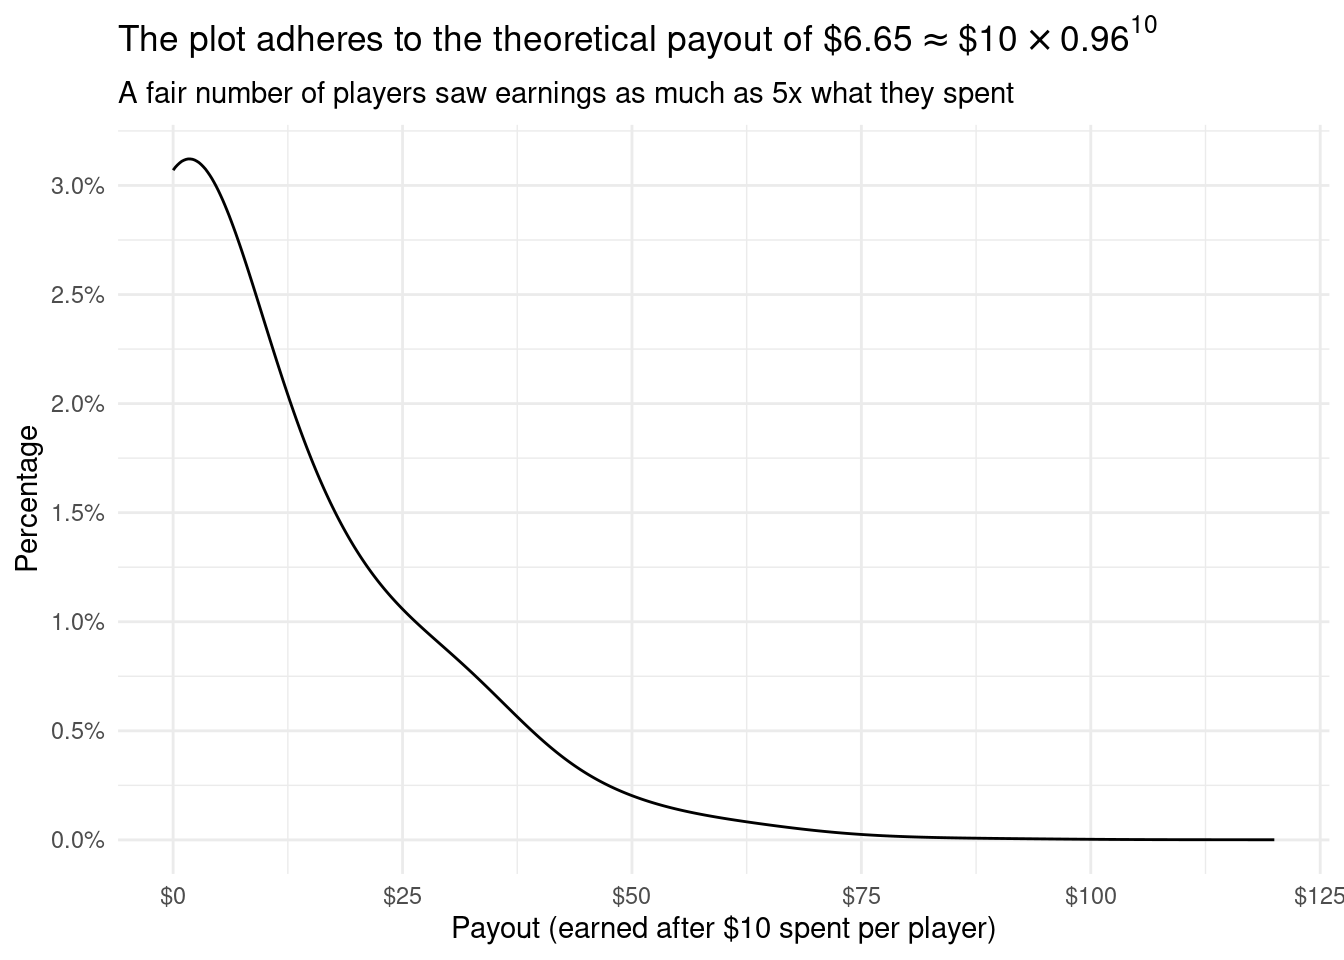
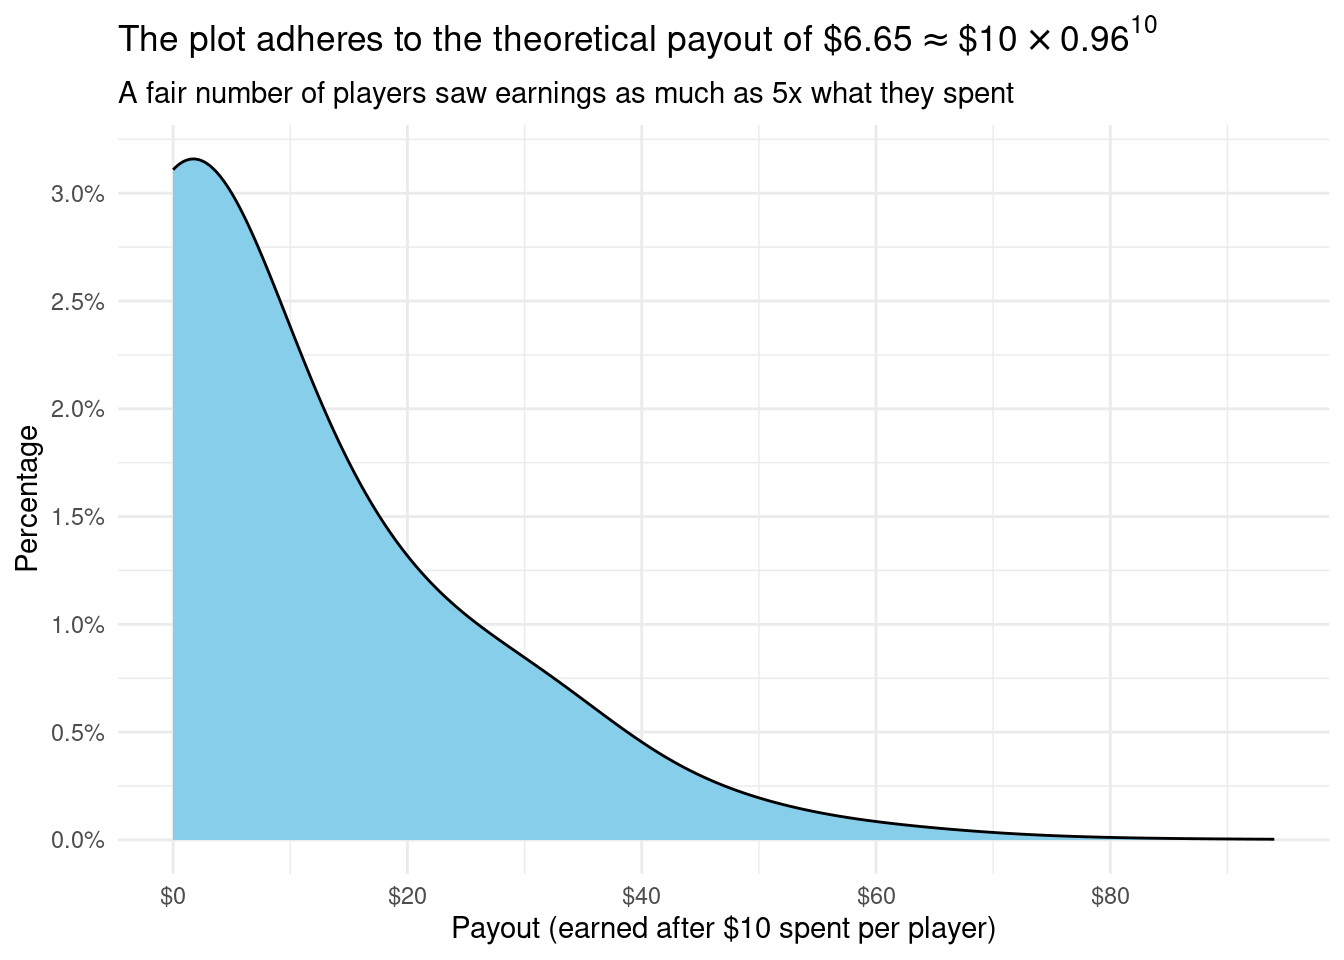
Build

diff --git a/simulation.html b/simulation.html
@@ -224,7 +224,7 @@ code span.wa { color: #60a0b0; font-weight: bold; font-style: italic; } /* Warni
 </section>
 <section id="define-the-payout-matrix-and-winning-combos" class="level3">
 <h3 class="anchored" data-anchor-id="define-the-payout-matrix-and-winning-combos">Define the payout matrix and winning combos</h3>
-<p>We define the set of winning combinations <span class="math inline">\(W \subset \Omega\)</span> to be equal to <span class="math inline">\(\{(x,y,z) \in \Omega: y = 11 \lor (x,y) \in \{(5,5), (1,1), (2,2)\}\lor x=y=z\}\)</span> and the payout function <span class="math display">\[f: W \rightarrow \mathbb{R}\]</span> such that</p>
+<p>We define the set of winning combinations <span class="math inline">\(W \subset \Omega\)</span> to be equal to <span class="math inline">\(\{(x,y,z) \in \Omega: (y = 11\land x \equiv\text{1 (mod 2)}) \lor (x,y) \in \{(5,5), (1,1), (2,2)\}\lor x=y=z\}\)</span> and the payout function <span class="math display">\[f: W \rightarrow \mathbb{R}\]</span> such that</p>
 <p><span class="math display">\[
 f(w) =
 \begin{cases}
@@ -295,9 +295,9 @@ x \in X, &amp; \text{if } w = (x_1, 11, x_3)\text{ and }x_1 \equiv 1\text{ (mod 
 <span id="cb12-20"><a href="#cb12-20" aria-hidden="true" tabindex="-1"></a>expected_value <span class="op">=</span> total_payout <span class="op">/</span> num_combinations</span>
 <span id="cb12-21"><a href="#cb12-21" aria-hidden="true" tabindex="-1"></a></span>
 <span id="cb12-22"><a href="#cb12-22" aria-hidden="true" tabindex="-1"></a><span class="cf">assert</span> expected_value <span class="op">&lt;</span> <span class="dv">1</span>, <span class="ss">f"your payout of </span><span class="sc">{</span>expected_value<span class="sc">}</span><span class="ss"> favours the player!"</span></span>
-<span id="cb12-23"><a href="#cb12-23" aria-hidden="true" tabindex="-1"></a><span class="bu">print</span>(expected_value)</span></code><button title="Copy to Clipboard" class="code-copy-button"><i class="bi"></i></button></pre></div>
+<span id="cb12-23"><a href="#cb12-23" aria-hidden="true" tabindex="-1"></a><span class="bu">print</span>(<span class="st">"The long-run theoretical payout per dollar is $"</span> <span class="op">+</span> <span class="bu">str</span>(<span class="bu">round</span>(expected_value, <span class="dv">4</span>)))</span></code><button title="Copy to Clipboard" class="code-copy-button"><i class="bi"></i></button></pre></div>
 <div class="cell-output cell-output-stdout">
-<pre><code>0.9581818181818181</code></pre>
+<pre><code>The long-run theoretical payout per dollar is $0.9582</code></pre>
 </div>
 </div>
 </section>
@@ -361,19 +361,25 @@ x \in X, &amp; \text{if } w = (x_1, 11, x_3)\text{ and }x_1 \equiv 1\text{ (mod 
 <summary>Hide the code</summary>
 <div class="sourceCode cell-code" id="cb18"><pre class="sourceCode r code-with-copy"><code class="sourceCode r"><span id="cb18-1"><a href="#cb18-1" aria-hidden="true" tabindex="-1"></a>outcome <span class="sc">|&gt;</span> </span>
 <span id="cb18-2"><a href="#cb18-2" aria-hidden="true" tabindex="-1"></a>  <span class="fu">ggplot</span>(<span class="fu">aes</span>(payout <span class="sc">*</span> <span class="dv">10</span>)) <span class="sc">+</span> <span class="co">#total earned rather than earning per dollar.</span></span>
-<span id="cb18-3"><a href="#cb18-3" aria-hidden="true" tabindex="-1"></a>  <span class="fu">geom_density</span>(<span class="at">bw =</span> <span class="fl">8.5</span>) <span class="sc">+</span> <span class="co">#heavy smoothing because of the discrete volatility of the data.</span></span>
-<span id="cb18-4"><a href="#cb18-4" aria-hidden="true" tabindex="-1"></a>  <span class="fu">labs</span>(</span>
-<span id="cb18-5"><a href="#cb18-5" aria-hidden="true" tabindex="-1"></a>    <span class="at">subtitle =</span> <span class="st">"A fair number of players saw earnings as much as 5x what they spent"</span>,</span>
-<span id="cb18-6"><a href="#cb18-6" aria-hidden="true" tabindex="-1"></a>    <span class="at">y =</span> <span class="st">"Percentage"</span>, </span>
-<span id="cb18-7"><a href="#cb18-7" aria-hidden="true" tabindex="-1"></a>    <span class="at">x =</span> <span class="st">"Payout (earned after $10 spent per player)"</span>,</span>
-<span id="cb18-8"><a href="#cb18-8" aria-hidden="true" tabindex="-1"></a>  ) <span class="sc">+</span></span>
-<span id="cb18-9"><a href="#cb18-9" aria-hidden="true" tabindex="-1"></a>    <span class="fu">ggtitle</span>(latex2exp<span class="sc">::</span><span class="fu">TeX</span>(<span class="st">"The plot adheres to the theoretical payout of $</span><span class="sc">\\</span><span class="st">$6.65 </span><span class="sc">\\</span><span class="st">approx </span><span class="sc">\\</span><span class="st">$10 </span><span class="sc">\\</span><span class="st">times 0.96^{10}$"</span>)) <span class="sc">+</span></span>
-<span id="cb18-10"><a href="#cb18-10" aria-hidden="true" tabindex="-1"></a>  <span class="fu">scale_x_continuous</span>(<span class="at">labels =</span> scales<span class="sc">::</span><span class="fu">label_dollar</span>()) <span class="sc">+</span></span>
-<span id="cb18-11"><a href="#cb18-11" aria-hidden="true" tabindex="-1"></a>  <span class="fu">scale_y_continuous</span>(</span>
-<span id="cb18-12"><a href="#cb18-12" aria-hidden="true" tabindex="-1"></a>    <span class="at">breaks =</span> scales<span class="sc">::</span><span class="fu">breaks_extended</span>(<span class="at">n =</span> <span class="dv">7</span>),</span>
-<span id="cb18-13"><a href="#cb18-13" aria-hidden="true" tabindex="-1"></a>    <span class="at">labels =</span> scales<span class="sc">::</span><span class="fu">label_percent</span>()</span>
-<span id="cb18-14"><a href="#cb18-14" aria-hidden="true" tabindex="-1"></a>  ) <span class="sc">+</span></span>
-<span id="cb18-15"><a href="#cb18-15" aria-hidden="true" tabindex="-1"></a>  <span class="fu">theme_minimal</span>()</span></code><button title="Copy to Clipboard" class="code-copy-button"><i class="bi"></i></button></pre></div>
+<span id="cb18-3"><a href="#cb18-3" aria-hidden="true" tabindex="-1"></a>  <span class="fu">geom_density</span>(</span>
+<span id="cb18-4"><a href="#cb18-4" aria-hidden="true" tabindex="-1"></a>    <span class="at">bw =</span> <span class="fl">8.5</span>, <span class="do">##heavy smoothing because of the discrete volatility of the data.</span></span>
+<span id="cb18-5"><a href="#cb18-5" aria-hidden="true" tabindex="-1"></a>    <span class="at">fill =</span> <span class="st">"skyblue"</span></span>
+<span id="cb18-6"><a href="#cb18-6" aria-hidden="true" tabindex="-1"></a>  ) <span class="sc">+</span> </span>
+<span id="cb18-7"><a href="#cb18-7" aria-hidden="true" tabindex="-1"></a>  <span class="fu">labs</span>(</span>
+<span id="cb18-8"><a href="#cb18-8" aria-hidden="true" tabindex="-1"></a>    <span class="at">subtitle =</span> <span class="st">"A fair number of players saw earnings as much as 5x what they spent"</span>,</span>
+<span id="cb18-9"><a href="#cb18-9" aria-hidden="true" tabindex="-1"></a>    <span class="at">y =</span> <span class="st">"Percentage"</span>, </span>
+<span id="cb18-10"><a href="#cb18-10" aria-hidden="true" tabindex="-1"></a>    <span class="at">x =</span> <span class="st">"Payout (earned after $10 spent per player)"</span>,</span>
+<span id="cb18-11"><a href="#cb18-11" aria-hidden="true" tabindex="-1"></a>  ) <span class="sc">+</span></span>
+<span id="cb18-12"><a href="#cb18-12" aria-hidden="true" tabindex="-1"></a>    <span class="fu">ggtitle</span>(latex2exp<span class="sc">::</span><span class="fu">TeX</span>(<span class="st">"The plot adheres to the theoretical payout of $</span><span class="sc">\\</span><span class="st">$6.65 </span><span class="sc">\\</span><span class="st">approx </span><span class="sc">\\</span><span class="st">$10 </span><span class="sc">\\</span><span class="st">times 0.96^{10}$"</span>)) <span class="sc">+</span></span>
+<span id="cb18-13"><a href="#cb18-13" aria-hidden="true" tabindex="-1"></a>  <span class="fu">scale_x_continuous</span>(</span>
+<span id="cb18-14"><a href="#cb18-14" aria-hidden="true" tabindex="-1"></a>    <span class="at">breaks =</span> scales<span class="sc">::</span><span class="fu">breaks_extended</span>(<span class="at">n =</span> <span class="dv">7</span>),</span>
+<span id="cb18-15"><a href="#cb18-15" aria-hidden="true" tabindex="-1"></a>    <span class="at">labels =</span> scales<span class="sc">::</span><span class="fu">label_dollar</span>()</span>
+<span id="cb18-16"><a href="#cb18-16" aria-hidden="true" tabindex="-1"></a>  ) <span class="sc">+</span></span>
+<span id="cb18-17"><a href="#cb18-17" aria-hidden="true" tabindex="-1"></a>  <span class="fu">scale_y_continuous</span>(</span>
+<span id="cb18-18"><a href="#cb18-18" aria-hidden="true" tabindex="-1"></a>    <span class="at">breaks =</span> scales<span class="sc">::</span><span class="fu">breaks_extended</span>(<span class="at">n =</span> <span class="dv">7</span>),</span>
+<span id="cb18-19"><a href="#cb18-19" aria-hidden="true" tabindex="-1"></a>    <span class="at">labels =</span> scales<span class="sc">::</span><span class="fu">label_percent</span>()</span>
+<span id="cb18-20"><a href="#cb18-20" aria-hidden="true" tabindex="-1"></a>  ) <span class="sc">+</span></span>
+<span id="cb18-21"><a href="#cb18-21" aria-hidden="true" tabindex="-1"></a>  <span class="fu">theme_minimal</span>()</span></code><button title="Copy to Clipboard" class="code-copy-button"><i class="bi"></i></button></pre></div>
 </details>
 <div class="cell-output-display">
 <p><img src="simulation_files/figure-html/unnamed-chunk-13-1.png" class="img-fluid" width="672"></p>
@@ -418,9 +424,10 @@ x \in X, &amp; \text{if } w = (x_1, 11, x_3)\text{ and }x_1 \equiv 1\text{ (mod 
 <span id="cb20-5"><a href="#cb20-5" aria-hidden="true" tabindex="-1"></a>    <span class="at">fill =</span> <span class="st">"skyblue"</span></span>
 <span id="cb20-6"><a href="#cb20-6" aria-hidden="true" tabindex="-1"></a>  ) <span class="sc">+</span></span>
 <span id="cb20-7"><a href="#cb20-7" aria-hidden="true" tabindex="-1"></a>  <span class="fu">xlab</span>(<span class="st">"Payout per game"</span>) <span class="sc">+</span></span>
-<span id="cb20-8"><a href="#cb20-8" aria-hidden="true" tabindex="-1"></a>  <span class="fu">ylab</span>(<span class="st">""</span>) <span class="sc">+</span></span>
-<span id="cb20-9"><a href="#cb20-9" aria-hidden="true" tabindex="-1"></a>  <span class="fu">theme_minimal</span>()</span>
-<span id="cb20-10"><a href="#cb20-10" aria-hidden="true" tabindex="-1"></a>p1</span></code><button title="Copy to Clipboard" class="code-copy-button"><i class="bi"></i></button></pre></div>
+<span id="cb20-8"><a href="#cb20-8" aria-hidden="true" tabindex="-1"></a>  <span class="fu">ylab</span>(<span class="st">"Games played"</span>) <span class="sc">+</span></span>
+<span id="cb20-9"><a href="#cb20-9" aria-hidden="true" tabindex="-1"></a>  <span class="fu">scale_x_continuous</span>(<span class="at">breaks =</span> scales<span class="sc">::</span><span class="fu">breaks_extended</span>(<span class="at">n =</span> <span class="dv">7</span>)) <span class="sc">+</span></span>
+<span id="cb20-10"><a href="#cb20-10" aria-hidden="true" tabindex="-1"></a>  <span class="fu">theme_minimal</span>()</span>
+<span id="cb20-11"><a href="#cb20-11" aria-hidden="true" tabindex="-1"></a>p1</span></code><button title="Copy to Clipboard" class="code-copy-button"><i class="bi"></i></button></pre></div>
 </details>
 <div class="cell-output-display">
 <p><img src="simulation_files/figure-html/unnamed-chunk-15-1.png" class="img-fluid" width="672"></p>
@@ -433,13 +440,15 @@ x \in X, &amp; \text{if } w = (x_1, 11, x_3)\text{ and }x_1 \equiv 1\text{ (mod 
 <pre><code># A tibble: 1 × 7
   statistic   t_df p_value alternative estimate lower_ci upper_ci
       &lt;dbl&gt;  &lt;dbl&gt;   &lt;dbl&gt; &lt;chr&gt;          &lt;dbl&gt;    &lt;dbl&gt;    &lt;dbl&gt;
-1      216. 999999       0 two.sided      0.955    0.946    0.964</code></pre>
+1      216. 999999       0 two.sided      0.953    0.944    0.962</code></pre>
 </div>
 </div>
 <div class="cell">
 <details>
 <summary>Show the code</summary>
-<div class="sourceCode cell-code" id="cb23"><pre class="sourceCode r code-with-copy"><code class="sourceCode r"><span id="cb23-1"><a href="#cb23-1" aria-hidden="true" tabindex="-1"></a>openintro<span class="sc">::</span><span class="fu">normTail</span>(<span class="at">M =</span> <span class="fu">c</span>(<span class="fu">qnorm</span>(<span class="fl">0.025</span>), <span class="fu">qnorm</span>(<span class="fl">0.975</span>)), <span class="at">col =</span> <span class="st">"skyblue"</span>)</span></code><button title="Copy to Clipboard" class="code-copy-button"><i class="bi"></i></button></pre></div>
+<div class="sourceCode cell-code" id="cb23"><pre class="sourceCode r code-with-copy"><code class="sourceCode r"><span id="cb23-1"><a href="#cb23-1" aria-hidden="true" tabindex="-1"></a>lr_mean <span class="ot">&lt;-</span> <span class="fu">mean</span>(longrun_spins<span class="sc">$</span>payout)</span>
+<span id="cb23-2"><a href="#cb23-2" aria-hidden="true" tabindex="-1"></a>lr_se <span class="ot">&lt;-</span> <span class="fu">sd</span>(longrun_spins<span class="sc">$</span>payout)<span class="sc">/</span><span class="fu">sqrt</span>(N_samples)</span>
+<span id="cb23-3"><a href="#cb23-3" aria-hidden="true" tabindex="-1"></a>openintro<span class="sc">::</span><span class="fu">normTail</span>(<span class="at">m =</span> lr_mean, <span class="at">s =</span> lr_se, <span class="at">M =</span> <span class="fu">c</span>(<span class="fu">qnorm</span>(<span class="fl">0.025</span>, <span class="at">mean =</span> lr_mean, <span class="at">sd =</span> lr_se), <span class="fu">qnorm</span>(<span class="fl">0.975</span>, <span class="at">mean =</span> lr_mean, <span class="at">sd =</span> lr_se)), <span class="at">col =</span> <span class="st">"skyblue"</span>)</span></code><button title="Copy to Clipboard" class="code-copy-button"><i class="bi"></i></button></pre></div>
 </details>
 <div class="cell-output-display">
 <p><img src="simulation_files/figure-html/unnamed-chunk-17-1.png" class="img-fluid" width="672"></p>
@@ -478,35 +487,41 @@ x \in X, &amp; \text{if } w = (x_1, 11, x_3)\text{ and }x_1 \equiv 1\text{ (mod 
 <div class="cell">
 <details>
 <summary>Show the code</summary>
-<div class="sourceCode cell-code" id="cb26"><pre class="sourceCode r code-with-copy"><code class="sourceCode r"><span id="cb26-1"><a href="#cb26-1" aria-hidden="true" tabindex="-1"></a>bootstrap_stats <span class="sc">|&gt;</span> </span>
-<span id="cb26-2"><a href="#cb26-2" aria-hidden="true" tabindex="-1"></a>  <span class="fu">visualize</span>(<span class="at">fill =</span> <span class="st">"skyblue"</span>) <span class="sc">+</span></span>
-<span id="cb26-3"><a href="#cb26-3" aria-hidden="true" tabindex="-1"></a>  <span class="fu">shade_confidence_interval</span>(bootstrap_95_percentile_interval, <span class="at">linetype =</span> <span class="st">"dashed"</span>, <span class="at">size =</span> <span class="fl">0.5</span>) <span class="sc">+</span></span>
-<span id="cb26-4"><a href="#cb26-4" aria-hidden="true" tabindex="-1"></a>  <span class="fu">geom_vline</span>(<span class="at">xintercept =</span> obs_stat, <span class="at">linetype =</span> <span class="st">"dotted"</span>, <span class="at">colour =</span> <span class="st">"red"</span>) <span class="sc">+</span></span>
-<span id="cb26-5"><a href="#cb26-5" aria-hidden="true" tabindex="-1"></a>  <span class="fu">theme_minimal</span>() <span class="sc">+</span></span>
-<span id="cb26-6"><a href="#cb26-6" aria-hidden="true" tabindex="-1"></a>  <span class="fu">labs</span>(</span>
-<span id="cb26-7"><a href="#cb26-7" aria-hidden="true" tabindex="-1"></a>    <span class="at">x =</span> <span class="st">""</span>, </span>
-<span id="cb26-8"><a href="#cb26-8" aria-hidden="true" tabindex="-1"></a>    <span class="at">y =</span> <span class="st">""</span>,</span>
-<span id="cb26-9"><a href="#cb26-9" aria-hidden="true" tabindex="-1"></a>    <span class="at">title =</span> <span class="st">"The 95% bootstrap percentile interval also captures the theoretical payout"</span>,</span>
-<span id="cb26-10"><a href="#cb26-10" aria-hidden="true" tabindex="-1"></a>    <span class="at">subtitle =</span> <span class="st">"The interval is a quite wider because the samples are 100x smaller than the original"</span></span>
-<span id="cb26-11"><a href="#cb26-11" aria-hidden="true" tabindex="-1"></a>  ) <span class="sc">+</span></span>
-<span id="cb26-12"><a href="#cb26-12" aria-hidden="true" tabindex="-1"></a>  <span class="fu">scale_y_continuous</span>(<span class="at">labels =</span> <span class="cn">NULL</span>) <span class="sc">+</span></span>
-<span id="cb26-13"><a href="#cb26-13" aria-hidden="true" tabindex="-1"></a>  <span class="fu">annotate</span>(</span>
-<span id="cb26-14"><a href="#cb26-14" aria-hidden="true" tabindex="-1"></a>    <span class="at">geom =</span> <span class="st">"text"</span>,</span>
-<span id="cb26-15"><a href="#cb26-15" aria-hidden="true" tabindex="-1"></a>    <span class="at">label =</span> <span class="fu">str_glue</span>(<span class="st">"Mean of </span><span class="sc">\n</span><span class="st"> {obs_stat}"</span>),</span>
-<span id="cb26-16"><a href="#cb26-16" aria-hidden="true" tabindex="-1"></a>    <span class="at">x =</span> obs_stat <span class="sc">+</span> <span class="fl">0.025</span>,</span>
-<span id="cb26-17"><a href="#cb26-17" aria-hidden="true" tabindex="-1"></a>    <span class="at">y =</span> <span class="dv">1000</span></span>
-<span id="cb26-18"><a href="#cb26-18" aria-hidden="true" tabindex="-1"></a>  ) <span class="sc">+</span></span>
-<span id="cb26-19"><a href="#cb26-19" aria-hidden="true" tabindex="-1"></a>  <span class="fu">geom_text</span>(</span>
-<span id="cb26-20"><a href="#cb26-20" aria-hidden="true" tabindex="-1"></a>    <span class="at">data =</span> bootstrap_95_percentile_interval <span class="sc">|&gt;</span> <span class="fu">pivot_longer</span>(<span class="at">cols =</span> <span class="dv">1</span><span class="sc">:</span><span class="dv">2</span>),</span>
-<span id="cb26-21"><a href="#cb26-21" aria-hidden="true" tabindex="-1"></a>    <span class="fu">aes</span>(<span class="at">x =</span> value, <span class="at">label =</span> value),</span>
-<span id="cb26-22"><a href="#cb26-22" aria-hidden="true" tabindex="-1"></a>    <span class="at">y =</span> <span class="dv">1000</span></span>
-<span id="cb26-23"><a href="#cb26-23" aria-hidden="true" tabindex="-1"></a>  )</span></code><button title="Copy to Clipboard" class="code-copy-button"><i class="bi"></i></button></pre></div>
+<div class="sourceCode cell-code" id="cb26"><pre class="sourceCode r code-with-copy"><code class="sourceCode r"><span id="cb26-1"><a href="#cb26-1" aria-hidden="true" tabindex="-1"></a>text_height <span class="ot">&lt;-</span> <span class="dv">1000</span></span>
+<span id="cb26-2"><a href="#cb26-2" aria-hidden="true" tabindex="-1"></a></span>
+<span id="cb26-3"><a href="#cb26-3" aria-hidden="true" tabindex="-1"></a>bootstrap_stats <span class="sc">|&gt;</span> </span>
+<span id="cb26-4"><a href="#cb26-4" aria-hidden="true" tabindex="-1"></a>  <span class="fu">visualize</span>(<span class="at">fill =</span> <span class="st">"skyblue"</span>) <span class="sc">+</span></span>
+<span id="cb26-5"><a href="#cb26-5" aria-hidden="true" tabindex="-1"></a>  <span class="fu">shade_confidence_interval</span>(bootstrap_95_percentile_interval, <span class="at">linetype =</span> <span class="st">"dashed"</span>, <span class="at">size =</span> <span class="fl">0.5</span>) <span class="sc">+</span></span>
+<span id="cb26-6"><a href="#cb26-6" aria-hidden="true" tabindex="-1"></a>  <span class="fu">geom_vline</span>(<span class="at">xintercept =</span> obs_stat, <span class="at">linetype =</span> <span class="st">"dotted"</span>, <span class="at">colour =</span> <span class="st">"red"</span>) <span class="sc">+</span></span>
+<span id="cb26-7"><a href="#cb26-7" aria-hidden="true" tabindex="-1"></a>  <span class="fu">theme_minimal</span>() <span class="sc">+</span></span>
+<span id="cb26-8"><a href="#cb26-8" aria-hidden="true" tabindex="-1"></a>  <span class="fu">labs</span>(</span>
+<span id="cb26-9"><a href="#cb26-9" aria-hidden="true" tabindex="-1"></a>    <span class="at">x =</span> <span class="st">""</span>, </span>
+<span id="cb26-10"><a href="#cb26-10" aria-hidden="true" tabindex="-1"></a>    <span class="at">y =</span> <span class="st">""</span>,</span>
+<span id="cb26-11"><a href="#cb26-11" aria-hidden="true" tabindex="-1"></a>    <span class="at">title =</span> <span class="st">"The 95% bootstrap percentile interval also captures the theoretical payout"</span>,</span>
+<span id="cb26-12"><a href="#cb26-12" aria-hidden="true" tabindex="-1"></a>    <span class="at">subtitle =</span> <span class="st">"The interval is a quite wide because the samples are 100x smaller than the original"</span></span>
+<span id="cb26-13"><a href="#cb26-13" aria-hidden="true" tabindex="-1"></a>  ) <span class="sc">+</span></span>
+<span id="cb26-14"><a href="#cb26-14" aria-hidden="true" tabindex="-1"></a>  <span class="fu">scale_y_continuous</span>(<span class="at">labels =</span> <span class="cn">NULL</span>) <span class="sc">+</span></span>
+<span id="cb26-15"><a href="#cb26-15" aria-hidden="true" tabindex="-1"></a>  <span class="fu">annotate</span>(</span>
+<span id="cb26-16"><a href="#cb26-16" aria-hidden="true" tabindex="-1"></a>    <span class="at">geom =</span> <span class="st">"text"</span>,</span>
+<span id="cb26-17"><a href="#cb26-17" aria-hidden="true" tabindex="-1"></a>    <span class="at">label =</span> <span class="fu">str_glue</span>(<span class="st">"Mean of </span><span class="sc">\n</span><span class="st"> {obs_stat}"</span>),</span>
+<span id="cb26-18"><a href="#cb26-18" aria-hidden="true" tabindex="-1"></a>    <span class="at">x =</span> obs_stat <span class="sc">+</span> <span class="fl">0.025</span>,</span>
+<span id="cb26-19"><a href="#cb26-19" aria-hidden="true" tabindex="-1"></a>    <span class="at">y =</span> text_height</span>
+<span id="cb26-20"><a href="#cb26-20" aria-hidden="true" tabindex="-1"></a>  ) <span class="sc">+</span></span>
+<span id="cb26-21"><a href="#cb26-21" aria-hidden="true" tabindex="-1"></a>  <span class="fu">geom_text</span>(</span>
+<span id="cb26-22"><a href="#cb26-22" aria-hidden="true" tabindex="-1"></a>    <span class="at">data =</span> bootstrap_95_percentile_interval <span class="sc">|&gt;</span> <span class="fu">pivot_longer</span>(<span class="at">cols =</span> <span class="dv">1</span><span class="sc">:</span><span class="dv">2</span>),</span>
+<span id="cb26-23"><a href="#cb26-23" aria-hidden="true" tabindex="-1"></a>    <span class="fu">aes</span>(<span class="at">x =</span> value, <span class="at">label =</span> value),</span>
+<span id="cb26-24"><a href="#cb26-24" aria-hidden="true" tabindex="-1"></a>    <span class="at">y =</span> text_height</span>
+<span id="cb26-25"><a href="#cb26-25" aria-hidden="true" tabindex="-1"></a>  )</span></code><button title="Copy to Clipboard" class="code-copy-button"><i class="bi"></i></button></pre></div>
 </details>
 <div class="cell-output-display">
 <p><img src="simulation_files/figure-html/unnamed-chunk-20-1.png" class="img-fluid" width="672"></p>
 </div>
 </div>
 </section>
+</section>
+<section id="implement-the-game" class="level2">
+<h2 class="anchored" data-anchor-id="implement-the-game">Implement the game</h2>
+<p>Coming soon!</p>
 </section>
 
 </main>
